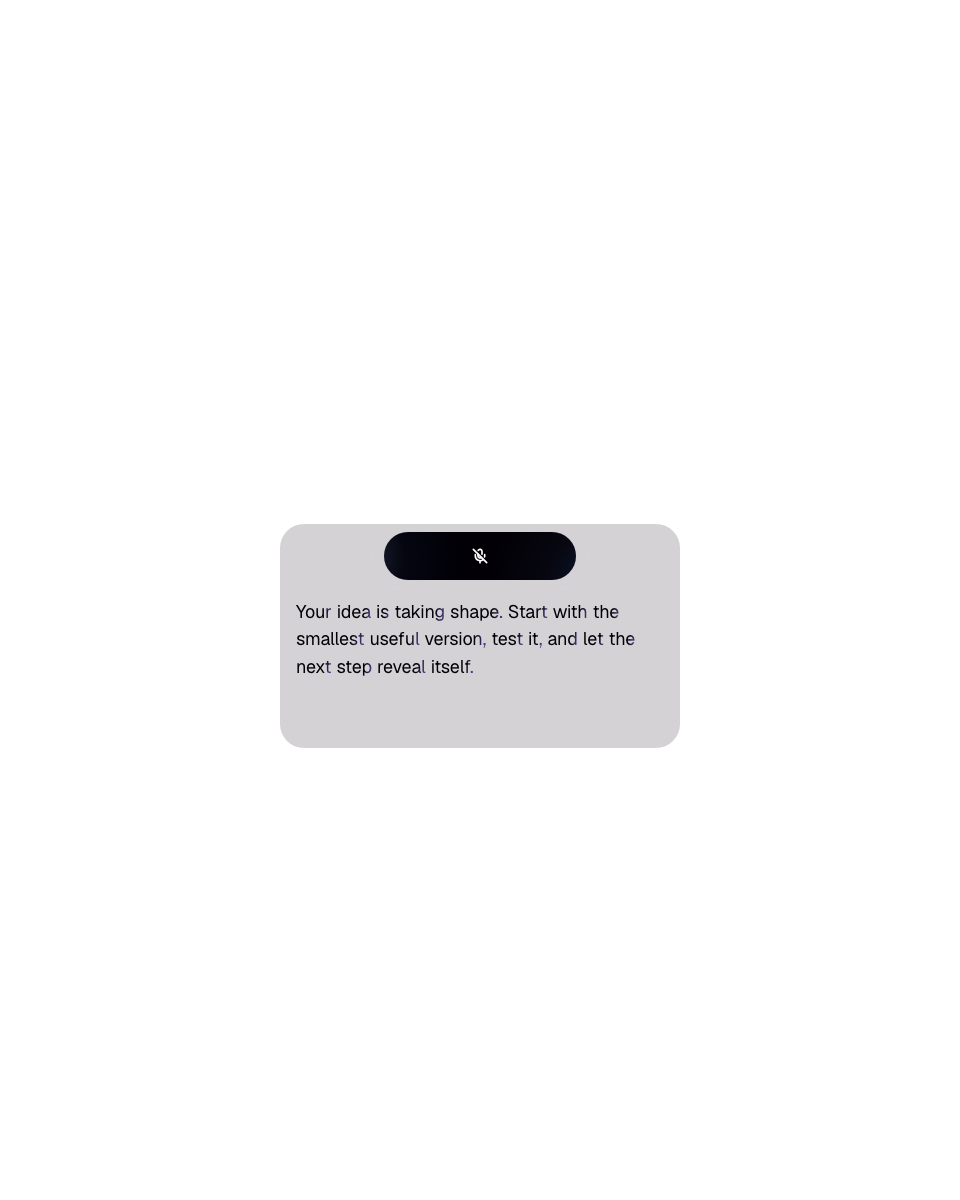
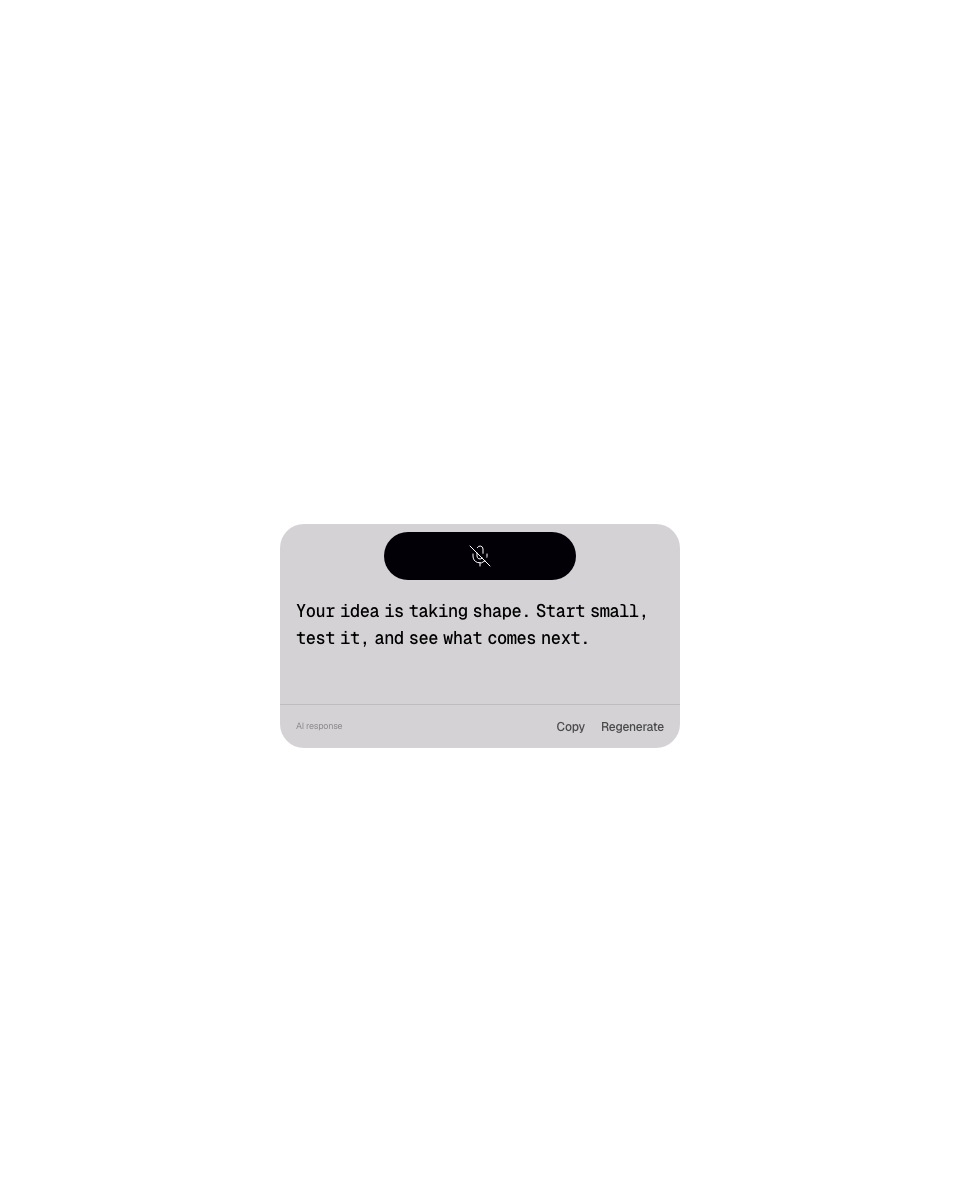
Polish Voice Bloom AI interaction

Changed region(s): [[0.3125, 0.4933, 0.6562, 0.5858], [0.625, 0.5858, 0.6875, 0.6167]]

diff --git a/components/ai/voice-bloom/voice-bloom.tsx b/components/ai/voice-bloom/voice-bloom.tsx
@@ -11,17 +11,84 @@ export type VoiceBloomProps = {
 
 type VoiceBloomPhase = "idle" | "listening" | "answering";
 
-const response =
-  "Your idea is taking shape. Start with the smallest useful version, test it, and let the next step reveal itself.";
-const responseWords = response.split(" ");
+const responses = [
+  "Your idea is taking shape. Start small, test it, and see what comes next.",
+  "That sounds promising. What part would you like to explore next?",
+] as const;
 const bloomEase = [0.22, 1, 0.36, 1] as const;
-const expandEase = [0.65, 0, 0.35, 1] as const;
+const panelSpring = {
+  type: "spring",
+  stiffness: 280,
+  damping: 30,
+  mass: 0.78,
+} as const;
+
+type RollingActionProps = {
+  label: string;
+  onClick: () => void;
+};
+
+function fallbackCopy(text: string) {
+  const copyField = document.createElement("textarea");
+  copyField.value = text;
+  copyField.setAttribute("readonly", "");
+  copyField.style.position = "fixed";
+  copyField.style.opacity = "0";
+  document.body.appendChild(copyField);
+  copyField.select();
+  document.execCommand("copy");
+  copyField.remove();
+}
+
+function copyText(text: string) {
+  const copyRequest = navigator.clipboard?.writeText(text);
+
+  if (copyRequest) {
+    void copyRequest.catch(() => fallbackCopy(text));
+  } else {
+    fallbackCopy(text);
+  }
+}
+
+function RollingAction({ label, onClick }: RollingActionProps) {
+  const reduceMotion = useReducedMotion();
+
+  return (
+    <motion.button
+      type="button"
+      onClick={onClick}
+      aria-label={label}
+      className="h-5 overflow-hidden bg-transparent p-0 text-[12px] font-medium leading-5 text-black/65 transition-colors duration-300 hover:text-black focus-visible:text-black focus-visible:outline-none"
+      initial="rest"
+      animate="rest"
+      whileHover="hover"
+      whileFocus="hover"
+    >
+      <motion.span
+        aria-hidden="true"
+        className="flex flex-col"
+        variants={{
+          rest: { y: 0 },
+          hover: { y: reduceMotion ? 0 : "-50%" },
+        }}
+        transition={{ duration: reduceMotion ? 0 : 0.5, ease: bloomEase }}
+      >
+        <span className="h-5">{label}</span>
+        <span className="h-5">{label}</span>
+      </motion.span>
+    </motion.button>
+  );
+}
 
 export function VoiceBloom({ className, loop = false }: VoiceBloomProps) {
   const reduceMotion = useReducedMotion();
   const [phase, setPhase] = React.useState<VoiceBloomPhase>("idle");
+  const [activeResponseIndex, setActiveResponseIndex] = React.useState(0);
   const [responseKey, setResponseKey] = React.useState(0);
+  const [hasCopied, setHasCopied] = React.useState(false);
   const listeningTimer = React.useRef<number | null>(null);
+  const followUpTimer = React.useRef<number | null>(null);
+  const copiedTimer = React.useRef<number | null>(null);
 
   const clearListeningTimer = React.useCallback(() => {
     if (listeningTimer.current !== null) {
@@ -30,13 +97,36 @@ export function VoiceBloom({ className, loop = false }: VoiceBloomProps) {
     }
   }, []);
 
-  const close = React.useCallback(() => {
+  const clearFollowUpTimer = React.useCallback(() => {
+    if (followUpTimer.current !== null) {
+      window.clearTimeout(followUpTimer.current);
+      followUpTimer.current = null;
+    }
+  }, []);
+
+  const clearCopiedTimer = React.useCallback(() => {
+    if (copiedTimer.current !== null) {
+      window.clearTimeout(copiedTimer.current);
+      copiedTimer.current = null;
+    }
+  }, []);
+
+  const clearTimers = React.useCallback(() => {
     clearListeningTimer();
+    clearFollowUpTimer();
+    clearCopiedTimer();
+  }, [clearCopiedTimer, clearFollowUpTimer, clearListeningTimer]);
+
+  const close = React.useCallback(() => {
+    clearTimers();
+    setHasCopied(false);
     setPhase("idle");
-  }, [clearListeningTimer]);
+  }, [clearTimers]);
 
   const startListening = React.useCallback(() => {
-    clearListeningTimer();
+    clearTimers();
+    setHasCopied(false);
+    setActiveResponseIndex(0);
     setPhase("listening");
 
     listeningTimer.current = window.setTimeout(
@@ -47,9 +137,24 @@ export function VoiceBloom({ className, loop = false }: VoiceBloomProps) {
       },
       reduceMotion ? 80 : 150,
     );
-  }, [clearListeningTimer, reduceMotion]);
+  }, [clearTimers, reduceMotion]);
 
-  React.useEffect(() => clearListeningTimer, [clearListeningTimer]);
+  React.useEffect(() => clearTimers, [clearTimers]);
+
+  React.useEffect(() => {
+    if (phase !== "answering" || activeResponseIndex !== 0) return;
+
+    followUpTimer.current = window.setTimeout(
+      () => {
+        setActiveResponseIndex(1);
+        setResponseKey((current) => current + 1);
+        followUpTimer.current = null;
+      },
+      reduceMotion ? 1200 : 4650,
+    );
+
+    return clearFollowUpTimer;
+  }, [activeResponseIndex, clearFollowUpTimer, phase, reduceMotion]);
 
   React.useEffect(() => {
     if (!loop) return;
@@ -65,6 +170,27 @@ export function VoiceBloom({ className, loop = false }: VoiceBloomProps) {
   const isOpen = phase === "answering";
   const isListening = phase === "listening";
   const shouldAnimateListening = isListening && !reduceMotion;
+  const response = responses[activeResponseIndex];
+  const responseWords = response.split(" ");
+
+  const copyResponse = React.useCallback(() => {
+    clearCopiedTimer();
+    setHasCopied(true);
+    copiedTimer.current = window.setTimeout(() => {
+      setHasCopied(false);
+      copiedTimer.current = null;
+    }, 1600);
+
+    copyText(response);
+  }, [clearCopiedTimer, response]);
+
+  const regenerateResponse = React.useCallback(() => {
+    clearFollowUpTimer();
+    clearCopiedTimer();
+    setHasCopied(false);
+    setActiveResponseIndex((current) => (current + 1) % responses.length);
+    setResponseKey((current) => current + 1);
+  }, [clearCopiedTimer, clearFollowUpTimer]);
 
   return (
     <div
@@ -88,27 +214,33 @@ export function VoiceBloom({ className, loop = false }: VoiceBloomProps) {
             opacity: isOpen ? 1 : 0,
           }}
           transition={{
-            duration: reduceMotion ? 0 : 0.3,
-            ease: expandEase,
+            width: reduceMotion ? { duration: 0 } : panelSpring,
+            height: reduceMotion ? { duration: 0 } : panelSpring,
+            marginLeft: reduceMotion ? { duration: 0 } : panelSpring,
+            marginTop: reduceMotion ? { duration: 0 } : panelSpring,
+            opacity: {
+              duration: reduceMotion ? 0 : 0.24,
+              ease: bloomEase,
+            },
           }}
         >
-          <AnimatePresence initial={false}>
+          <AnimatePresence initial={false} mode="wait">
             {isOpen ? (
               <motion.p
                 key={`answer-${responseKey}`}
                 aria-label={response}
                 aria-live="polite"
-                className="flex flex-wrap gap-x-[5px] gap-y-1 px-4 pb-6 pt-[76px] text-[18px] font-normal leading-[1.3] text-black"
+                className="relative z-10 flex flex-wrap gap-x-[5px] gap-y-1 px-4 pb-6 pt-[76px] font-mono text-[17px] font-medium leading-[1.35] tracking-[-0.025em] text-black"
                 initial={reduceMotion ? false : { opacity: 0 }}
                 animate={{ opacity: 1 }}
                 exit={reduceMotion ? undefined : { opacity: 0 }}
-                transition={{ duration: reduceMotion ? 0 : 0.2 }}
+                transition={{ duration: reduceMotion ? 0 : 0.32, ease: bloomEase }}
               >
                 {responseWords.map((word, index) => (
                   <motion.span
                     aria-hidden="true"
                     key={`${responseKey}-${word}-${index}`}
-                    className="bg-[linear-gradient(100deg,#020006_0%,#020006_34%,#866eea_48%,#cb696b_58%,#020006_74%)] bg-[length:240%_100%] bg-clip-text text-transparent"
+                    className="text-black"
                     initial={
                       reduceMotion
                         ? false
@@ -116,18 +248,16 @@ export function VoiceBloom({ className, loop = false }: VoiceBloomProps) {
                             opacity: 0,
                             y: 8,
                             filter: "blur(5px)",
-                            backgroundPosition: "100% 50%",
                           }
                     }
                     animate={{
                       opacity: 1,
                       y: 0,
                       filter: "blur(0px)",
-                      backgroundPosition: "0% 50%",
                     }}
                     transition={{
-                      duration: reduceMotion ? 0 : 0.48,
-                      delay: reduceMotion ? 0 : 0.28 + index * 0.055,
+                      duration: reduceMotion ? 0 : 0.66,
+                      delay: reduceMotion ? 0 : 0.38 + index * 0.075,
                       ease: bloomEase,
                     }}
                   >
@@ -135,6 +265,31 @@ export function VoiceBloom({ className, loop = false }: VoiceBloomProps) {
                   </motion.span>
                 ))}
               </motion.p>
+            ) : null}
+          </AnimatePresence>
+
+          <AnimatePresence initial={false}>
+            {isOpen ? (
+              <motion.nav
+                aria-label="AI response actions"
+                className="absolute inset-x-0 bottom-0 z-20 flex h-11 items-center justify-between border-t border-black/10 px-4 font-sans"
+                initial={reduceMotion ? false : { opacity: 0, y: 6 }}
+                animate={{ opacity: 1, y: 0 }}
+                exit={reduceMotion ? undefined : { opacity: 0, y: 4 }}
+                transition={{
+                  duration: reduceMotion ? 0 : 0.42,
+                  delay: reduceMotion ? 0 : 0.5,
+                  ease: bloomEase,
+                }}
+              >
+                <span className="text-[9px] font-normal leading-none text-black/35">
+                  AI response
+                </span>
+                <div className="flex items-center gap-4">
+                  <RollingAction label={hasCopied ? "Copied" : "Copy"} onClick={copyResponse} />
+                  <RollingAction label="Regenerate" onClick={regenerateResponse} />
+                </div>
+              </motion.nav>
             ) : null}
           </AnimatePresence>
         </motion.div>
@@ -146,7 +301,7 @@ export function VoiceBloom({ className, loop = false }: VoiceBloomProps) {
             isOpen ? "Stop voice response" : isListening ? "Listening" : "Start voice input"
           }
           aria-pressed={isListening}
-          className="absolute left-1/2 top-1/2 z-10 flex w-48 items-center justify-center overflow-visible rounded-[200px] bg-[#020006] text-white focus-visible:outline-none"
+          className="absolute left-1/2 top-1/2 z-10 flex w-48 items-center justify-center overflow-visible rounded-[200px] bg-[#020006] text-white focus-visible:bg-[#17151d] focus-visible:outline-none"
           initial={false}
           animate={{
             height: 48,
@@ -154,12 +309,12 @@ export function VoiceBloom({ className, loop = false }: VoiceBloomProps) {
             marginTop: isOpen ? -68 : -24,
           }}
           transition={{
-            marginTop: { duration: reduceMotion ? 0 : 0.3, ease: expandEase },
+            marginTop: reduceMotion ? { duration: 0 } : panelSpring,
           }}
         >
           <motion.span
             aria-hidden="true"
-            className="pointer-events-none absolute inset-[-8px] rounded-[200px] border border-white/40"
+            className="pointer-events-none absolute inset-[-8px] -z-10 rounded-[200px] bg-[#020006]/20"
             animate={
               shouldAnimateListening
                 ? { opacity: [0, 0.28, 0], scale: [0.94, 1.1, 1.14] }
@@ -170,16 +325,16 @@ export function VoiceBloom({ className, loop = false }: VoiceBloomProps) {
 
           <span aria-hidden="true" className="relative z-10 block size-6 shrink-0">
             <Mic
-              className={`absolute inset-0 size-6 transition-[opacity,transform] duration-300 ease-out motion-reduce:transition-none ${
+              className={`absolute inset-0 size-6 transition-[opacity,transform] duration-500 [transition-timing-function:cubic-bezier(0.22,1,0.36,1)] motion-reduce:transition-none ${
                 isOpen ? "-translate-y-0.5 opacity-0" : "translate-y-0 opacity-100"
               }`}
-              strokeWidth={2.5}
+              strokeWidth={1}
             />
             <MicOff
-              className={`absolute inset-0 size-6 transition-[opacity,transform] duration-300 ease-out motion-reduce:transition-none ${
+              className={`absolute inset-0 size-6 transition-[opacity,transform] duration-500 [transition-timing-function:cubic-bezier(0.22,1,0.36,1)] motion-reduce:transition-none ${
                 isOpen ? "translate-y-0 opacity-100" : "translate-y-0.5 opacity-0"
               }`}
-              strokeWidth={2.5}
+              strokeWidth={1}
             />
           </span>
         </motion.button>

diff --git a/src/lib/component-registry.ts b/src/lib/component-registry.ts
@@ -236,7 +236,7 @@ export const componentRegistry = {
     index: "011",
     title: "Voice Bloom",
     description:
-      "A gradient microphone that listens, blooms into an AI response panel, and reveals generated guidance word by word",
+      "A conversational microphone that blooms into an AI response panel, reveals replies word by word, and offers copy or regenerate actions",
     category: "AI",
     status: "NEW",
     statusClassName: "bg-[var(--jitter-orange)]/12 text-[var(--jitter-orange)]",

diff --git a/components/ai/voice-bloom/README.md b/components/ai/voice-bloom/README.md
@@ -1,6 +1,6 @@
 # Voice Bloom
 
-A gradient microphone that listens, blooms into an AI response panel, and reveals generated guidance word by word
+A conversational microphone that blooms into an AI response panel, reveals replies word by word, and offers copy or regenerate actions
 
 ![Voice Bloom preview](https://raw.githubusercontent.com/michellesijiama/atomicmotion-ui/main/public/previews/voice-bloom.png)
 
